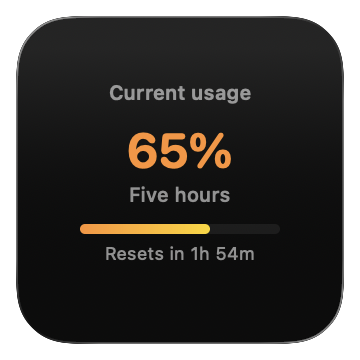
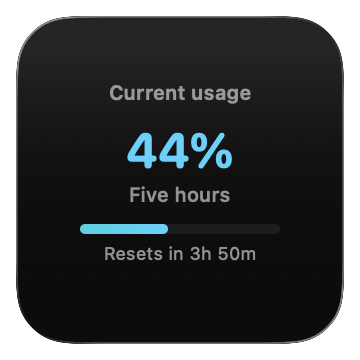
Update screenshots with new widget and menu bar designs

Changed region(s): [[0.2139, 0.6111, 0.7333, 0.7333], [0.3361, 0.3667, 0.6417, 0.4889]]

diff --git a/README.md b/README.md
@@ -26,22 +26,26 @@
 
 ## Screenshots
 
+### Menu Bar Popover
+
 <p align="center">
-  <img src="screenshots/menubar.png" width="280" alt="Menu Bar" />
+  <img src="screenshots/menubar.png" width="320" alt="Menu Bar Popover" />
+</p>
+
+### Widgets
+
+<p align="center">
+  <img src="screenshots/large.png" width="360" alt="Large Widget" />
 </p>
 
 <p align="center">
-  <img src="screenshots/small-current.png" width="170" alt="Small Widget — Current Usage" />
-  &nbsp;&nbsp;
-  <img src="screenshots/small-weekly.png" width="170" alt="Small Widget — Weekly Usage" />
+  <img src="screenshots/medium.png" width="420" alt="Medium Widget" />
 </p>
 
 <p align="center">
-  <img src="screenshots/medium.png" width="340" alt="Medium Widget" />
-</p>
-
-<p align="center">
-  <img src="screenshots/large.png" width="280" alt="Large Widget" />
+  <img src="screenshots/small-current.png" width="190" alt="Small Widget — Current Usage" />
+  &nbsp;&nbsp;&nbsp;
+  <img src="screenshots/small-weekly.png" width="190" alt="Small Widget — Weekly Usage" />
 </p>
 
 ---
